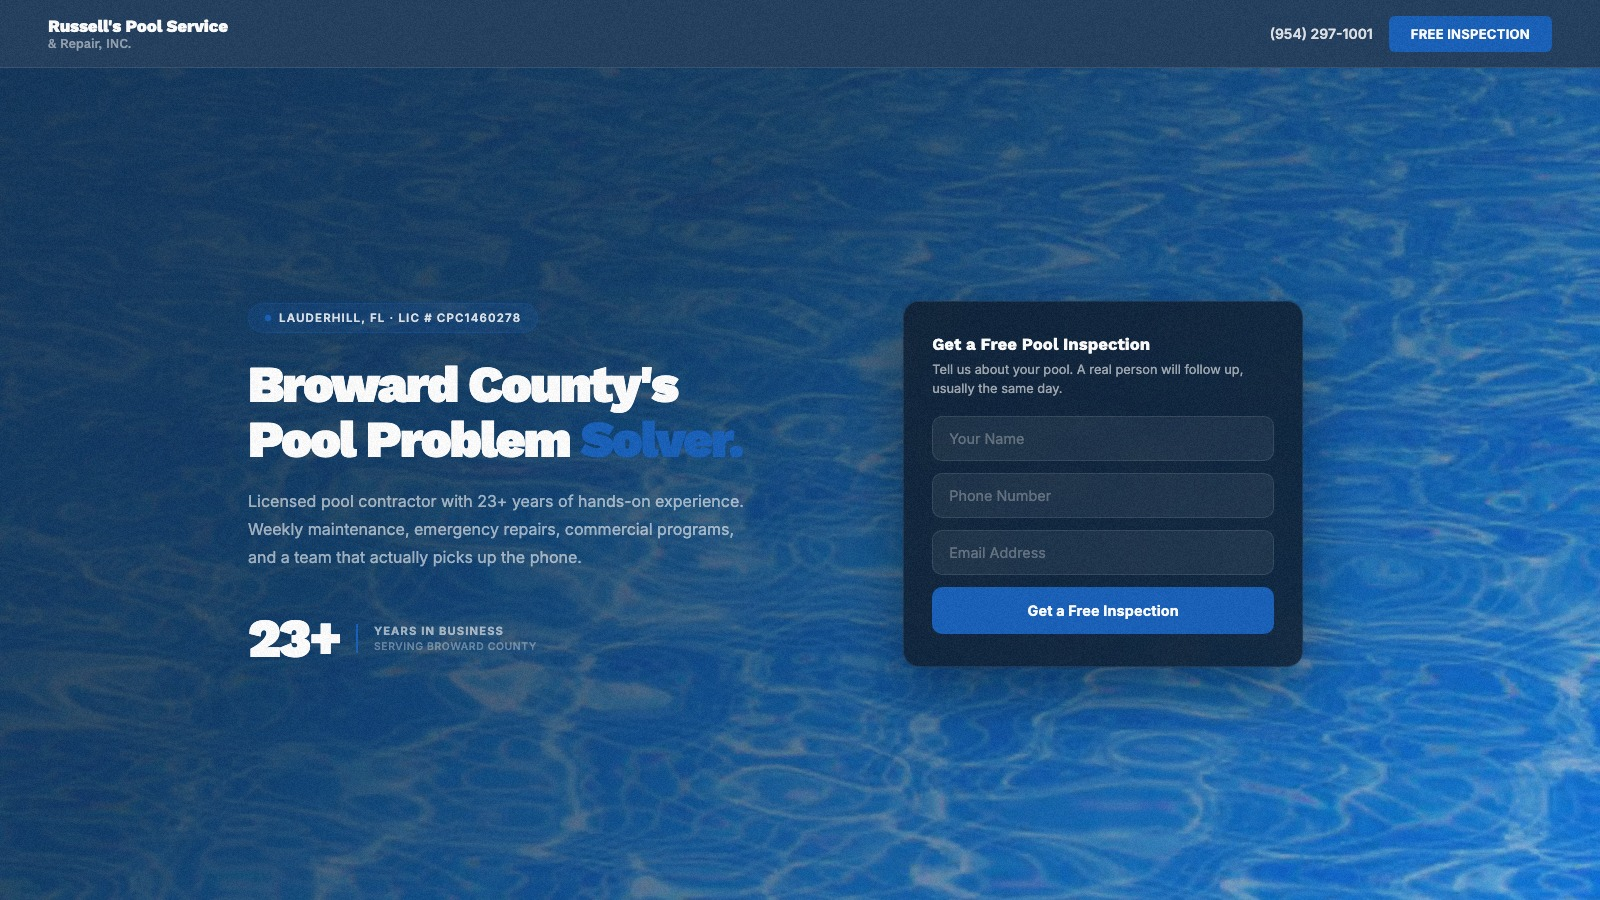
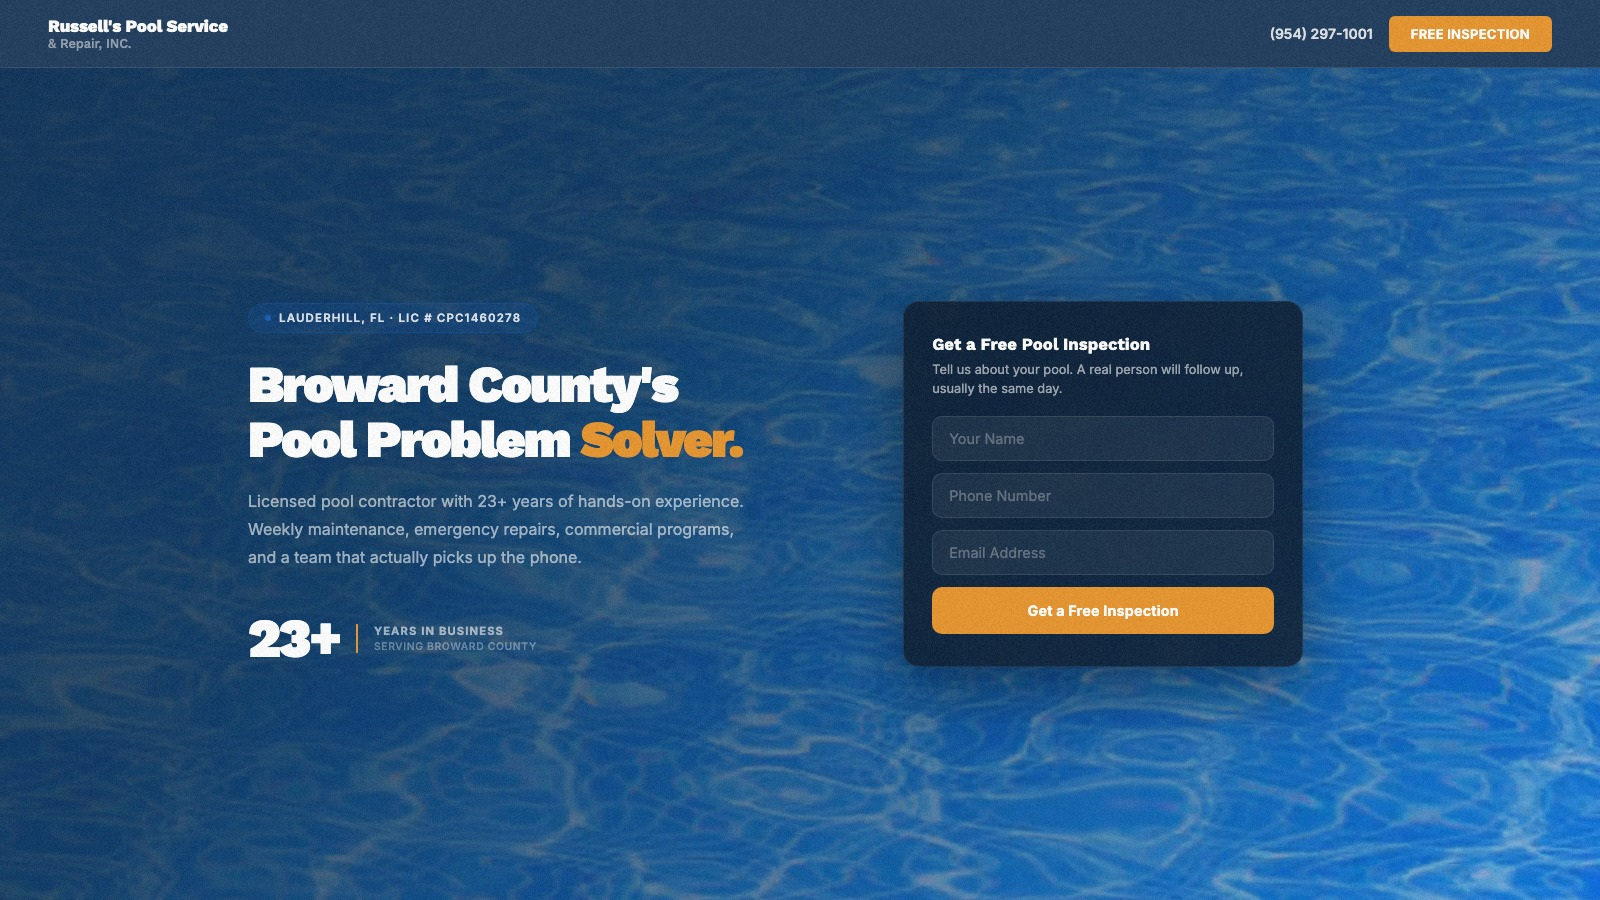
Add warm amber accent color to Russell's Pool Service
New accent (#e8952e) hits nav CTA, form button, hero accent word,
stat border, section labels, review stars, cred dots, CTA button,
and mobile call button. Navy stays structural, amber draws the eye
to actions and breaks the blue monotone.

diff --git a/p/russells-pool-service-lauderhill/index.html b/p/russells-pool-service-lauderhill/index.html
@@ -23,6 +23,8 @@
   --blue:#155eba;
   --blue-hover:#1a6fd4;
   --blue-overlay:#236CC8;
+  --accent:#e8952e;
+  --accent-hover:#f0a842;
   --maroon:#990100;
   --white:#ffffff;
   --off-white:#f7f9fc;
@@ -45,7 +47,7 @@ body{font-family:'Inter',sans-serif;background:var(--off-white);color:#1a1a1a}
 /* LOADER */
 #loader{position:fixed;inset:0;background:var(--navy-deep);display:flex;flex-direction:column;align-items:center;justify-content:center;padding:0 clamp(32px,8vw,120px);z-index:999999;transition:opacity .9s ease,visibility .9s ease}
 #loader.done{opacity:0;visibility:hidden;pointer-events:none}
-#loader-stars{color:var(--blue);font-size:.9rem;letter-spacing:4px;margin-bottom:20px;opacity:0;transition:opacity .4s ease}
+#loader-stars{color:var(--accent);font-size:.9rem;letter-spacing:4px;margin-bottom:20px;opacity:0;transition:opacity .4s ease}
 #loader-stars.on{opacity:1}
 #loader-quote{font-family:'Inter',sans-serif;font-size:clamp(1.3rem,3.2vw,2.2rem);font-weight:300;font-style:italic;line-height:1.4;color:var(--white);letter-spacing:-.01em;max-width:680px;text-align:center;opacity:0;transform:translateY(14px);transition:opacity .4s ease,transform .4s ease}
 #loader-quote.on{opacity:1;transform:translateY(0)}
@@ -56,8 +58,8 @@ nav{position:sticky;top:0;z-index:100;height:68px;background:rgba(15,45,78,.92);
 .nav-logo span{color:rgba(255,255,255,.5);font-weight:500;font-size:13px;display:block}
 .nav-right{display:flex;align-items:center;gap:16px}
 .nav-phone{color:rgba(255,255,255,.85);font-size:14px;font-weight:600;text-decoration:none;white-space:nowrap}
-.nav-cta{background:var(--blue);color:var(--white);font-weight:700;font-size:13px;padding:10px 22px;border-radius:6px;text-decoration:none;white-space:nowrap;transition:all .25s;letter-spacing:.02em;text-transform:uppercase}
-.nav-cta:hover{background:var(--blue-hover);box-shadow:0 4px 16px rgba(21,94,186,.3)}
+.nav-cta{background:var(--accent);color:var(--white);font-weight:700;font-size:13px;padding:10px 22px;border-radius:6px;text-decoration:none;white-space:nowrap;transition:all .25s;letter-spacing:.02em;text-transform:uppercase}
+.nav-cta:hover{background:var(--accent-hover);box-shadow:0 4px 16px rgba(232,149,46,.3)}
 
 /* HERO */
 .hero{height:calc(100vh - 68px);display:flex;align-items:center;position:relative;overflow:hidden;background:var(--navy-deep)}
@@ -69,11 +71,11 @@ nav{position:sticky;top:0;z-index:100;height:68px;background:rgba(15,45,78,.92);
 .hero-eyebrow{display:inline-flex;align-items:center;gap:8px;background:rgba(21,94,186,.15);border:1px solid rgba(21,94,186,.3);color:rgba(255,255,255,.85);font-weight:600;font-size:.72rem;text-transform:uppercase;letter-spacing:.1em;padding:7px 16px;border-radius:99px;width:fit-content;margin-bottom:24px}
 .hero-eyebrow::before{content:'';display:block;width:6px;height:6px;border-radius:50%;background:var(--blue);box-shadow:0 0 8px rgba(21,94,186,.6)}
 .hero-h1{font-family:'Work Sans',sans-serif;font-size:clamp(2.2rem,3.8vw,3.2rem);font-weight:900;color:var(--white);line-height:1.08;letter-spacing:-.035em;margin-bottom:20px}
-.hero-h1 em{font-style:normal;color:var(--blue)}
+.hero-h1 em{font-style:normal;color:var(--accent)}
 .hero-sub{color:var(--muted);font-size:1rem;line-height:1.75;max-width:500px;margin-bottom:32px}
 .hero-stat{display:flex;align-items:center;gap:16px;margin-top:8px}
 .hero-stat-num{font-family:'Work Sans',sans-serif;font-size:clamp(2.6rem,4vw,3.4rem);font-weight:900;line-height:1;color:var(--white);letter-spacing:-.04em}
-.hero-stat-right{display:flex;flex-direction:column;gap:2px;padding-left:16px;border-left:2px solid var(--blue)}
+.hero-stat-right{display:flex;flex-direction:column;gap:2px;padding-left:16px;border-left:2px solid var(--accent)}
 .hero-stat-label{font-size:.7rem;font-weight:700;letter-spacing:.1em;text-transform:uppercase;color:var(--muted)}
 .hero-stat-sub{font-size:.65rem;font-weight:500;letter-spacing:.06em;text-transform:uppercase;color:rgba(255,255,255,.35)}
 
@@ -85,8 +87,8 @@ nav{position:sticky;top:0;z-index:100;height:68px;background:rgba(15,45,78,.92);
 .hero-form input{display:block;width:100%;background:rgba(255,255,255,.06);border:1.5px solid rgba(255,255,255,.1);border-radius:10px;padding:13px 16px;font-size:.9rem;color:var(--white);font-family:inherit;margin-bottom:12px;outline:none;transition:all .25s}
 .hero-form input:focus{border-color:var(--blue);box-shadow:0 0 0 3px rgba(21,94,186,.15);background:rgba(21,94,186,.06)}
 .hero-form input::placeholder{color:rgba(255,255,255,.3)}
-.hero-form button{background:var(--blue);color:var(--white);border:none;border-radius:10px;padding:15px;font-size:.9rem;font-weight:700;cursor:pointer;font-family:inherit;width:100%;transition:all .25s;letter-spacing:.01em}
-.hero-form button:hover{background:var(--blue-hover);box-shadow:0 8px 24px rgba(21,94,186,.3)}
+.hero-form button{background:var(--accent);color:var(--white);border:none;border-radius:10px;padding:15px;font-size:.9rem;font-weight:700;cursor:pointer;font-family:inherit;width:100%;transition:all .25s;letter-spacing:.01em}
+.hero-form button:hover{background:var(--accent-hover);box-shadow:0 8px 24px rgba(232,149,46,.3)}
 
 /* SVG WAVE */
 .wave-break{display:block;width:100%;background:var(--off-white);margin-top:-1px}
@@ -104,7 +106,7 @@ nav{position:sticky;top:0;z-index:100;height:68px;background:rgba(15,45,78,.92);
 section{padding:96px 48px}
 section.dark{background:var(--navy-deep);color:var(--text)}
 section.alt{background:var(--off-white)}
-.section-label{font-size:.72rem;font-weight:700;text-transform:uppercase;letter-spacing:.14em;color:var(--blue);margin-bottom:14px}
+.section-label{font-size:.72rem;font-weight:700;text-transform:uppercase;letter-spacing:.14em;color:var(--accent);margin-bottom:14px}
 .section-title{font-family:'Work Sans',sans-serif;font-size:clamp(1.7rem,3vw,2.4rem);font-weight:900;letter-spacing:-.03em;line-height:1.12;margin-bottom:18px;color:var(--navy)}
 .section-sub{font-size:1rem;line-height:1.75;max-width:560px;color:#5a6678}
 .dark .section-title{color:var(--white)}
@@ -134,14 +136,14 @@ section.alt{background:var(--off-white)}
 .about-body{font-size:.95rem;color:#5a6678;line-height:1.8;margin-bottom:20px}
 .cred-list{display:flex;flex-direction:column;gap:12px}
 .cred-item{display:flex;align-items:center;gap:12px;font-size:.88rem;font-weight:600;color:var(--navy)}
-.cred-item::before{content:'';display:block;width:8px;height:8px;border-radius:50%;background:var(--blue);flex-shrink:0;box-shadow:0 0 8px rgba(21,94,186,.3)}
+.cred-item::before{content:'';display:block;width:8px;height:8px;border-radius:50%;background:var(--accent);flex-shrink:0;box-shadow:0 0 8px rgba(232,149,46,.3)}
 
 /* REVIEWS CAROUSEL */
 .reviews{overflow:hidden;position:relative}
 .reviews-track-wrap{position:relative;overflow:hidden}
 .reviews-track{display:flex;transition:transform .45s cubic-bezier(.22,1,.36,1)}
 .review-card{flex:0 0 100%;max-width:640px;margin:0 auto;padding:0 24px;text-align:center}
-.review-stars{color:var(--blue);font-size:.9rem;letter-spacing:3px;margin-bottom:16px}
+.review-stars{color:var(--accent);font-size:.9rem;letter-spacing:3px;margin-bottom:16px}
 .review-text{font-size:clamp(1.05rem,2vw,1.25rem);font-style:italic;line-height:1.7;color:var(--navy);margin-bottom:18px;font-weight:400}
 .review-author{font-size:.75rem;font-weight:600;letter-spacing:.1em;text-transform:uppercase;color:#5a6678}
 .reviews-nav{display:flex;align-items:center;justify-content:center;gap:18px;margin-top:36px}
@@ -149,7 +151,7 @@ section.alt{background:var(--off-white)}
 .reviews-arrow:hover{background:rgba(21,94,186,.06);border-color:var(--blue);color:var(--blue)}
 .reviews-dots{display:flex;gap:8px}
 .reviews-dot{width:8px;height:8px;border-radius:50%;background:rgba(15,45,78,.15);cursor:pointer;transition:all .25s}
-.reviews-dot.active{background:var(--blue);box-shadow:0 0 8px rgba(21,94,186,.4)}
+.reviews-dot.active{background:var(--accent);box-shadow:0 0 8px rgba(232,149,46,.4)}
 
 /* CTA */
 .cta-banner{background:var(--navy);padding:96px 48px;text-align:center;position:relative;overflow:hidden}
@@ -157,8 +159,8 @@ section.alt{background:var(--off-white)}
 .cta-banner h2{font-family:'Work Sans',sans-serif;font-size:clamp(1.8rem,3vw,2.6rem);font-weight:900;color:var(--white);letter-spacing:-.03em;margin-bottom:18px;position:relative}
 .cta-banner p{color:var(--muted);font-size:1.05rem;max-width:520px;margin:0 auto 40px;line-height:1.7;position:relative}
 .cta-actions{display:flex;gap:16px;justify-content:center;flex-wrap:wrap;position:relative}
-.btn-primary{background:var(--blue);color:var(--white);font-weight:700;font-size:.95rem;padding:14px 28px;border-radius:8px;text-decoration:none;display:inline-block;transition:all .25s}
-.btn-primary:hover{background:var(--blue-hover);box-shadow:0 8px 24px rgba(21,94,186,.3)}
+.btn-primary{background:var(--accent);color:var(--white);font-weight:700;font-size:.95rem;padding:14px 28px;border-radius:8px;text-decoration:none;display:inline-block;transition:all .25s}
+.btn-primary:hover{background:var(--accent-hover);box-shadow:0 8px 24px rgba(232,149,46,.3)}
 .btn-ghost{color:var(--white);font-weight:600;font-size:.95rem;text-decoration:none;border:1px solid rgba(255,255,255,.18);padding:13px 24px;border-radius:8px;display:inline-block;transition:all .25s}
 .btn-ghost:hover{background:rgba(255,255,255,.06);border-color:rgba(255,255,255,.3)}
 
@@ -202,7 +204,7 @@ footer{background:var(--navy-deep);padding:56px 48px;display:grid;grid-template-
   .cta-banner{padding:64px 20px;padding-bottom:110px}
   .mobile-cta{display:flex;position:fixed;bottom:0;left:0;right:0;z-index:200;background:rgba(15,45,78,.95);backdrop-filter:blur(20px);-webkit-backdrop-filter:blur(20px);padding:12px 20px;gap:10px;align-items:center;justify-content:center;box-shadow:0 -4px 20px rgba(0,0,0,.4);border-top:1px solid rgba(255,255,255,.1)}
   .mobile-cta a{flex:1;text-align:center;padding:14px;border-radius:8px;font-weight:700;font-size:.9rem;text-decoration:none;font-family:inherit}
-  .mobile-cta .mc-call{background:var(--blue);color:var(--white)}
+  .mobile-cta .mc-call{background:var(--accent);color:var(--white)}
   .mobile-cta .mc-inspect{background:transparent;color:var(--white);border:1px solid rgba(255,255,255,.18)}
 }
 
